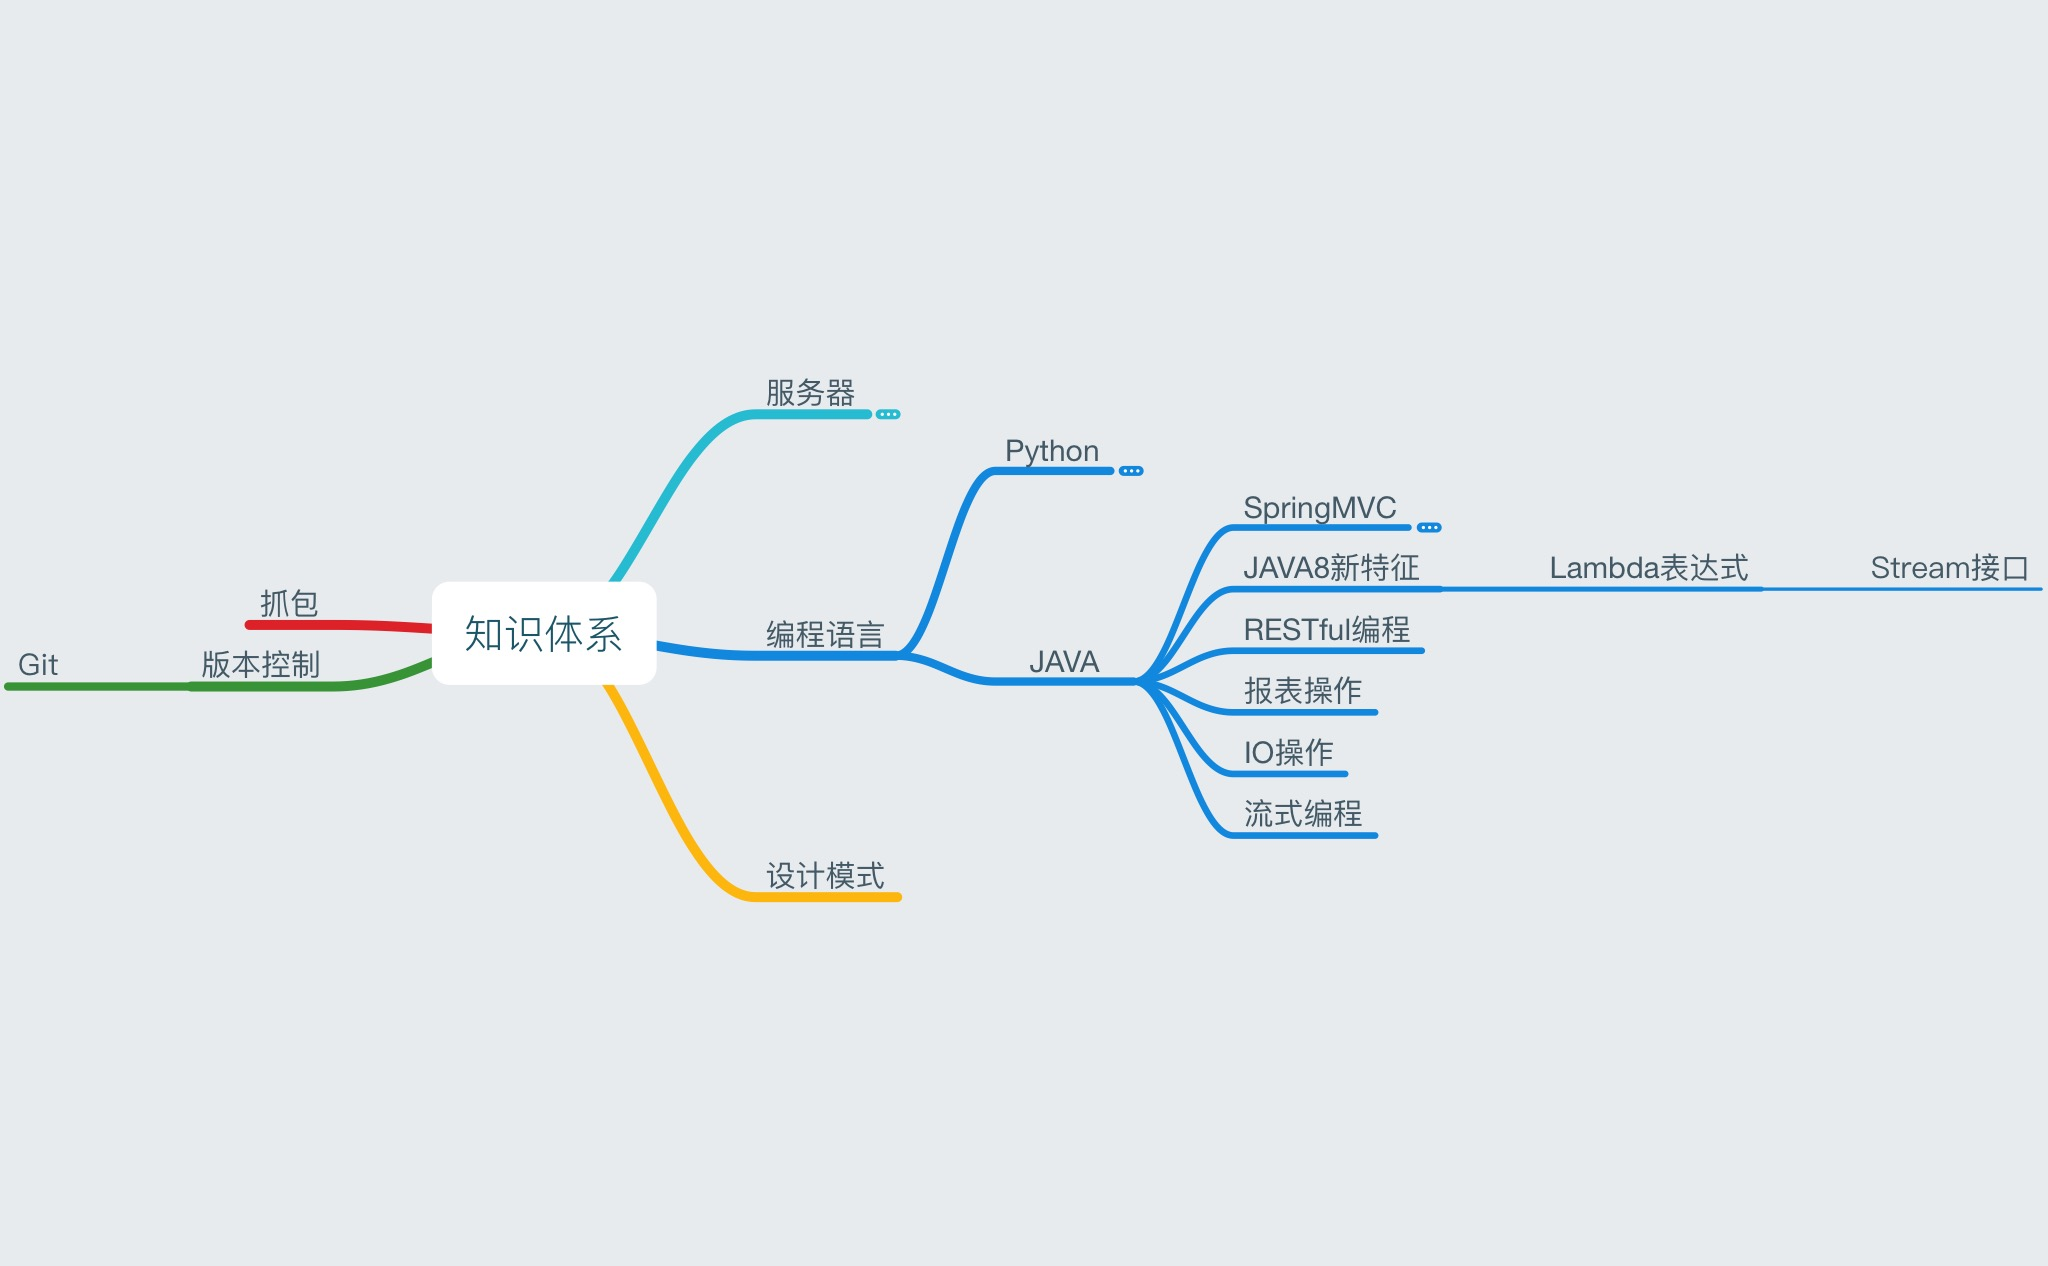
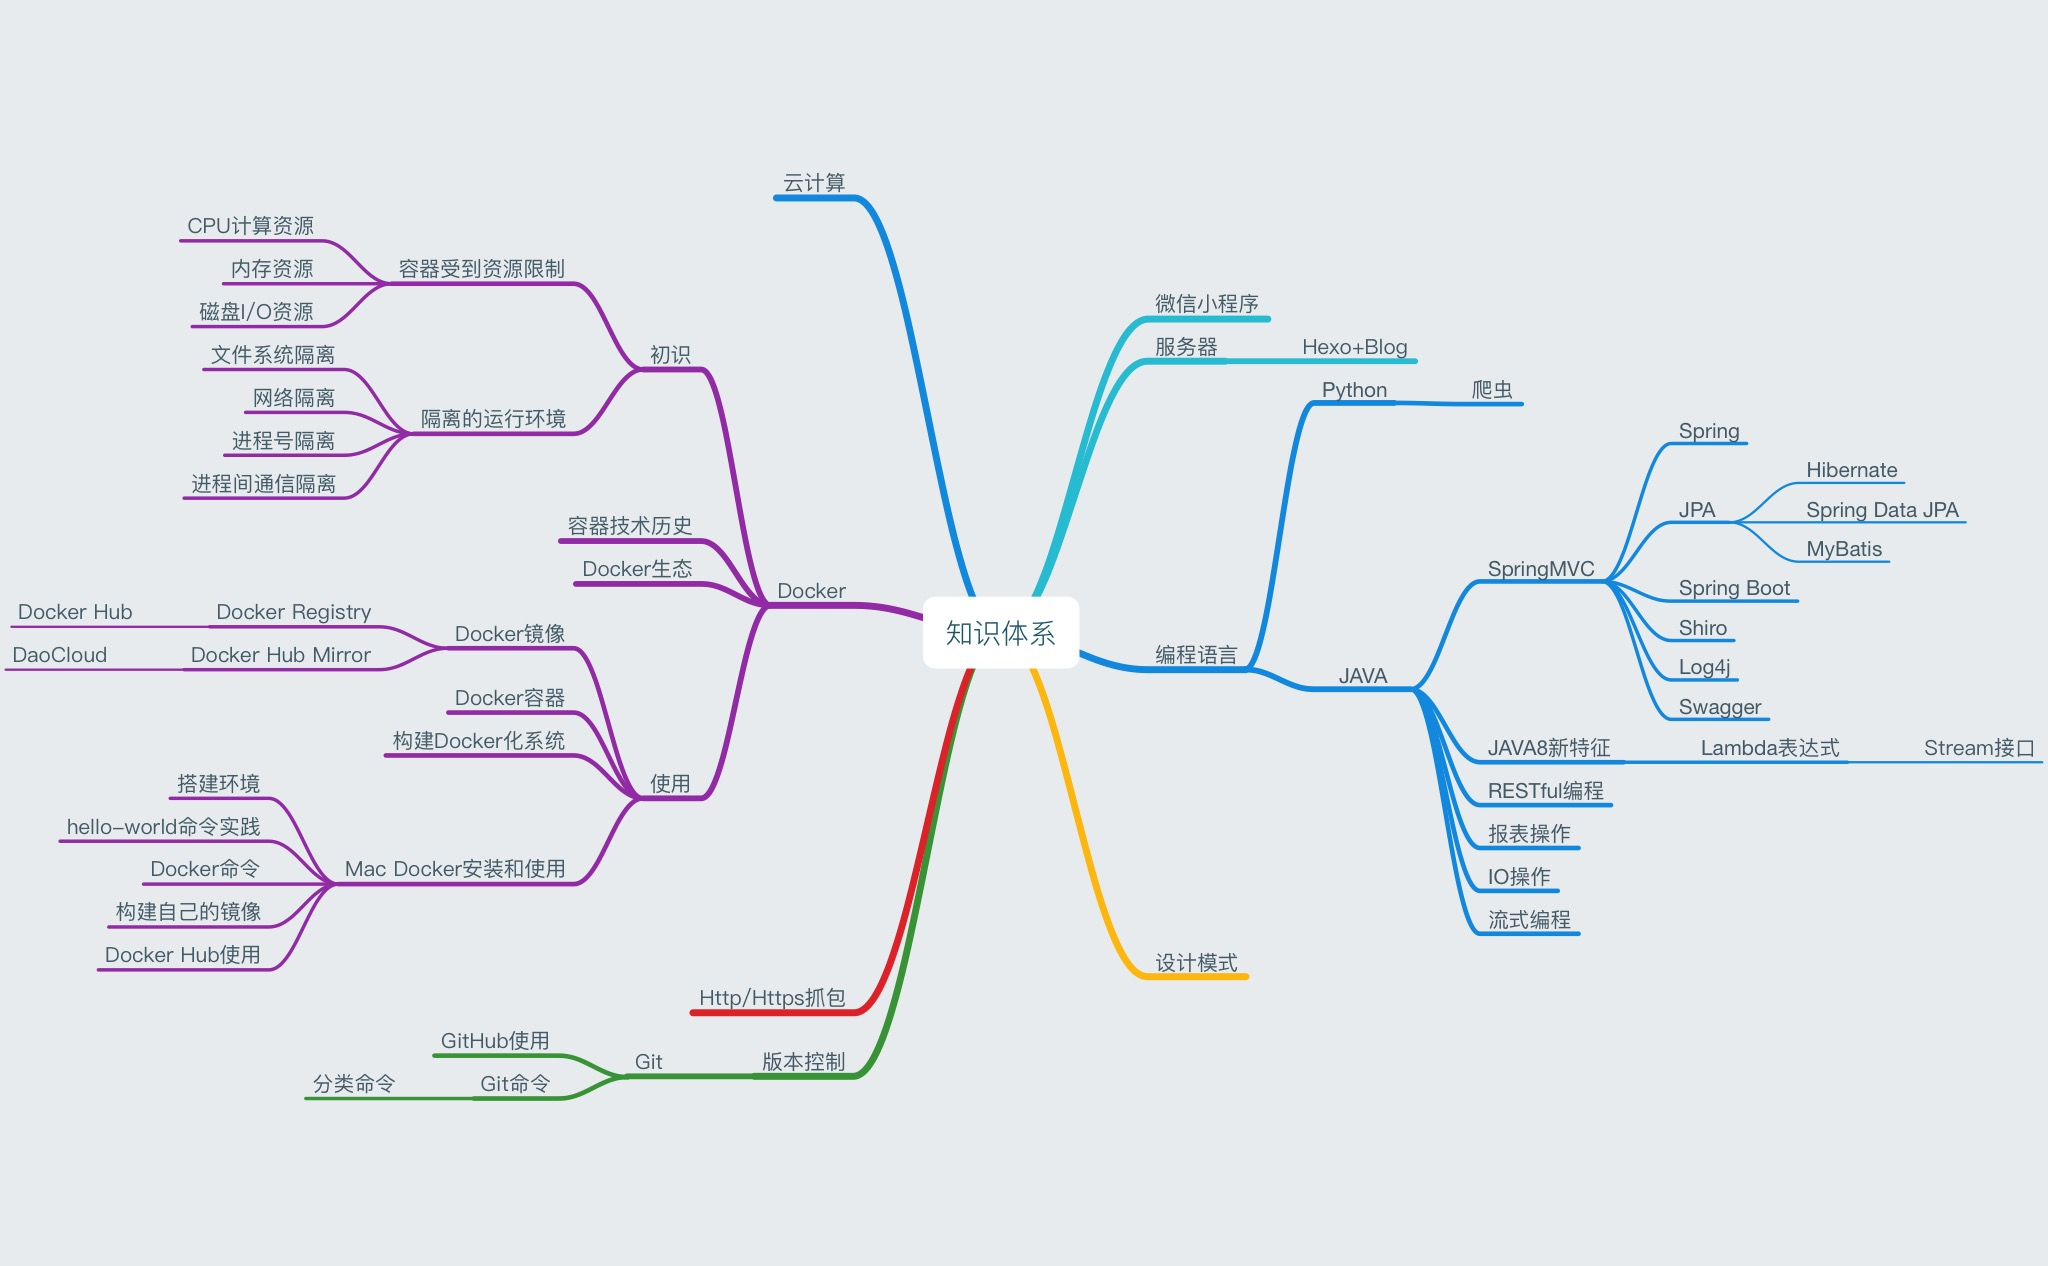
Docker整理

diff --git a/MarkDownResources/Docker学习历程.md b/MarkDownResources/Docker学习历程.md
@@ -1,0 +1,351 @@
+# Docker学习历程
+
+## Mac下搭建Docker环境
+
+参考[ 在OS X安装Docker](http://blog.csdn.net/jpiverson/article/details/50685817)
+
+[docker官网](https://www.docker.com/products/docker-toolbox)下载文件，默认选项安装后，启动`Docker Quickstart Terminal`
+
+成功的执行结果：
+
+```
+Creating CA: /Users/tilkai/.docker/machine/certs/ca.pem
+Creating client certificate: /Users/tilkai/.docker/machine/certs/cert.pem
+Running pre-create checks...
+(default) Default Boot2Docker ISO is out-of-date, downloading the latest release...
+(default) Latest release for github.com/boot2docker/boot2docker is v1.12.6
+(default) Downloading /Users/tilkai/.docker/machine/cache/boot2docker.iso from https://github.com/boot2docker/boot2docker/releases/download/v1.12.6/boot2docker.iso...
+(default) 0%....10%....20%....30%....40%....50%....60%....70%....80%....90%....100%
+Creating machine...
+(default) Copying /Users/tilkai/.docker/machine/cache/boot2docker.iso to /Users/tilkai/.docker/machine/machines/default/boot2docker.iso...
+(default) Creating VirtualBox VM...
+(default) Creating SSH key...
+(default) Starting the VM...
+(default) Check network to re-create if needed...
+(default) Found a new host-only adapter: "vboxnet1"
+(default) Waiting for an IP...
+Waiting for machine to be running, this may take a few minutes...
+Detecting operating system of created instance...
+Waiting for SSH to be available...
+Detecting the provisioner...
+Provisioning with boot2docker...
+Copying certs to the local machine directory...
+Copying certs to the remote machine...
+Setting Docker configuration on the remote daemon...
+Checking connection to Docker...
+Docker is up and running!
+To see how to connect your Docker Client to the Docker Engine running on this virtual machine, run: /usr/local/bin/docker-machine env default
+                        ##         .
+                  ## ## ##        ==
+               ## ## ## ## ##    ===
+           /"""""""""""""""""\___/ ===
+      ~~~ {~~ ~~~~ ~~~ ~~~~ ~~~ ~ /  ===- ~~~
+           \______ o           __/
+             \    \         __/
+              \____\_______/
+
+
+docker is configured to use the default machine with IP 192.168.99.100
+For help getting started, check out the docs at https://docs.docker.com
+```
+
+运行`docker run hello-world`查看是否一切运行良好，正常的返回结果：
+
+```
+➜  ~ docker run hello-world
+Unable to find image 'hello-world:latest' locally
+latest: Pulling from library/hello-world
+
+c04b14da8d14: Pull complete 
+Digest: sha256:0256e8a36e2070f7bf2d0b0763dbabdd67798512411de4cdcf9431a1feb60fd9
+Status: Downloaded newer image for hello-world:latest
+
+Hello from Docker!
+This message shows that your installation appears to be working correctly.
+
+To generate this message, Docker took the following steps:
+ 1. The Docker client contacted the Docker daemon.
+ 2. The Docker daemon pulled the "hello-world" image from the Docker Hub.
+ 3. The Docker daemon created a new container from that image which runs the
+    executable that produces the output you are currently reading.
+ 4. The Docker daemon streamed that output to the Docker client, which sent it
+    to your terminal.
+
+To try something more ambitious, you can run an Ubuntu container with:
+ $ docker run -it ubuntu bash
+
+Share images, automate workflows, and more with a free Docker Hub account:
+ https://hub.docker.com
+
+For more examples and ideas, visit:
+ https://docs.docker.com/engine/userguide/
+```
+
+## 关于镜像和容器
+
+### 解释下`docker run hello-world`
+
+1⃣ (docker)告诉Docker运行docker program；
+2⃣ (run)Docker子命令创建，并运行docker容器；
+3⃣ (hello-world)告诉Docker容器中加载hell-world镜像；
+
+### 通过对`whalesay`镜像的一系列操作进行具体的学习实践
+
+[DockerHub官网](https://hub.docker.com)搜索`whalesay`，进入`docker/whalesay`详情页。
+
+How to use this image中描述执行下面命令来运行：
+
+```
+docker run docker/whalesay cowsay boo
+```
+
+其中，`cowsay`为要运行的命令，`boo`为参数(像如果把参数改为`hello world!`，鲸鱼说话会变成`hello world!`具体看下面的执行结果)。
+
+Docker 会先在本地查找有没有镜像，如果没有就从仓库中下载。
+
+运行结果：
+
+```
+➜  ~ docker run docker/whalesay cowsay boo
+Unable to find image 'docker/whalesay:latest' locally
+latest: Pulling from docker/whalesay
+
+e190868d63f8: Pull complete 
+909cd34c6fd7: Pull complete 
+0b9bfabab7c1: Pull complete 
+a3ed95caeb02: Pull complete 
+00bf65475aba: Pull complete 
+c57b6bcc83e3: Pull complete 
+8978f6879e2f: Pull complete 
+8eed3712d2cf: Pull complete 
+Digest: sha256:178598e51a26abbc958b8a2e48825c90bc22e641de3d31e18aaf55f3258ba93b
+Status: Downloaded newer image for docker/whalesay:latest
+ _____ 
+< boo >
+ ----- 
+    \
+     \
+      \     
+                    ##        .            
+              ## ## ##       ==            
+           ## ## ## ##      ===            
+       /""""""""""""""""___/ ===        
+  ~~~ {~~ ~~~~ ~~~ ~~~~ ~~ ~ /  ===- ~~~   
+       \______ o          __/            
+        \    \        __/             
+          \____\______/   
+
+```
+
+### 查看本地镜像
+
+运行`docker images`，运行结果：
+
+```
+➜  ~ docker images
+REPOSITORY          TAG                 IMAGE ID            CREATED             SIZE
+hello-world         latest              c54a2cc56cbb        6 months ago        1.848 kB
+docker/whalesay     latest              6b362a9f73eb        19 months ago       247 MB
+```
+
+## 构建自己的镜像
+
+下面基于`Docker run docker/whalesay cowsay boo-boo`改进并构建一个新的版本。
+
+构建自己的镜像需要经过以下的一系列操作：
+
+### 创建DockerFile文件
+
+#### 创建镜像环境目录文件
+
+执行：
+
+```
+mkdir DockerBuild
+```
+
+`DockerBuild`可以自行命名定义，这个目录会相当于你构建镜像时的环境，里面会存放构建的镜像的所有东西。
+
+进入该目录：
+
+```
+cd DockerBuild
+```
+
+创建Dockerfile文件：
+
+```
+touch Dockerfile
+```
+
+注意，`Dockerfile`文件无后缀。
+
+这个名称因为刚学习，不确定是不是可以自定义名称，暂且不对文件名做其他操作。
+
+`Dockerfile`中插入：
+
+```
+echo FROM docker/whalesay:latest
+```
+
+其中，`FROM`关键字告诉Docker你的镜像是根据哪个镜像构建的。
+
+#### 添加fortunes程序到镜像
+
+`Dockerfile`文件中插入：
+
+```
+echo RUN apt-get -y update && apt-get install -y fortunes
+```
+
+`fortunes`程序是一个让`whalesay`聪明的说出语句的命令，这一行使用了`apt-get`命令安装`fortunes`。
+
+#### 通过 CMD 指定镜像载入之后需要执行的命令
+
+`Dockerfile`中插入：
+
+```
+CMD /usr/games/fortune -a | cowsay
+```
+
+于是，最终`Dockerfile`的内容为：
+
+```
+FROM docker/whalesay:latest
+
+RUN apt-get -y update && apt-get install -y fortunes
+
+CMD /usr/games/fortune -a | cowsay
+```
+
+### 根据Dockerfile构建你的镜像
+
+`DockerBuild`目录(你自己创建的镜像环境目录)下执行：
+
+```
+docker build -t docker-whale .
+```
+
+执行成功后，会创建名为`docker-whale`的镜像，可通过`docker images`命令查看。
+
+完整的执行结果：
+
+```
+➜  DockerBuild docker build -t docker-whale .
+Sending build context to Docker daemon 2.048 kB
+Step 1 : FROM docker/whalesay:latest
+ ---> 6b362a9f73eb
+Step 2 : RUN apt-get -y update && apt-get install -y fortunes
+ ---> Running in 60c69de9cbd1
+Ign http://archive.ubuntu.com trusty InRelease
+Get:1 http://archive.ubuntu.com trusty-updates InRelease [65.9 kB]
+Get:2 http://archive.ubuntu.com trusty-security InRelease [65.9 kB]
+Hit http://archive.ubuntu.com trusty Release.gpg
+Hit http://archive.ubuntu.com trusty Release
+Get:3 http://archive.ubuntu.com trusty-updates/main Sources [480 kB]
+Get:4 http://archive.ubuntu.com trusty-updates/restricted Sources [5921 B]
+Get:5 http://archive.ubuntu.com trusty-updates/universe Sources [216 kB]
+Get:6 http://archive.ubuntu.com trusty-updates/main amd64 Packages [1172 kB]
+Get:7 http://archive.ubuntu.com trusty-updates/restricted amd64 Packages [20.4 kB]
+Get:8 http://archive.ubuntu.com trusty-updates/universe amd64 Packages [507 kB]
+Get:9 http://archive.ubuntu.com trusty-security/main Sources [157 kB]
+Get:10 http://archive.ubuntu.com trusty-security/restricted Sources [4621 B]
+Get:11 http://archive.ubuntu.com trusty-security/universe Sources [55.9 kB]
+Get:12 http://archive.ubuntu.com trusty-security/main amd64 Packages [711 kB]
+Get:13 http://archive.ubuntu.com trusty-security/restricted amd64 Packages [17.0 kB]
+Get:14 http://archive.ubuntu.com trusty-security/universe amd64 Packages [193 kB]
+Hit http://archive.ubuntu.com trusty/main Sources
+Hit http://archive.ubuntu.com trusty/restricted Sources
+Hit http://archive.ubuntu.com trusty/universe Sources
+Hit http://archive.ubuntu.com trusty/main amd64 Packages
+Hit http://archive.ubuntu.com trusty/restricted amd64 Packages
+Hit http://archive.ubuntu.com trusty/universe amd64 Packages
+Fetched 3671 kB in 23s (154 kB/s)
+Reading package lists...
+Reading package lists...
+Building dependency tree...
+Reading state information...
+The following extra packages will be installed:
+  fortune-mod fortunes-min librecode0
+Suggested packages:
+  x11-utils bsdmainutils
+The following NEW packages will be installed:
+  fortune-mod fortunes fortunes-min librecode0
+0 upgraded, 4 newly installed, 0 to remove and 92 not upgraded.
+Need to get 1961 kB of archives.
+After this operation, 4817 kB of additional disk space will be used.
+Get:1 http://archive.ubuntu.com/ubuntu/ trusty/main librecode0 amd64 3.6-21 [771 kB]
+Get:2 http://archive.ubuntu.com/ubuntu/ trusty/universe fortune-mod amd64 1:1.99.1-7 [39.5 kB]
+Get:3 http://archive.ubuntu.com/ubuntu/ trusty/universe fortunes-min all 1:1.99.1-7 [61.8 kB]
+Get:4 http://archive.ubuntu.com/ubuntu/ trusty/universe fortunes all 1:1.99.1-7 [1089 kB]
+debconf: unable to initialize frontend: Dialog
+debconf: (TERM is not set, so the dialog frontend is not usable.)
+debconf: falling back to frontend: Readline
+debconf: unable to initialize frontend: Readline
+debconf: (This frontend requires a controlling tty.)
+debconf: falling back to frontend: Teletype
+dpkg-preconfigure: unable to re-open stdin: 
+Fetched 1961 kB in 8s (225 kB/s)
+Selecting previously unselected package librecode0:amd64.
+(Reading database ... 13116 files and directories currently installed.)
+Preparing to unpack .../librecode0_3.6-21_amd64.deb ...
+Unpacking librecode0:amd64 (3.6-21) ...
+Selecting previously unselected package fortune-mod.
+Preparing to unpack .../fortune-mod_1%3a1.99.1-7_amd64.deb ...
+Unpacking fortune-mod (1:1.99.1-7) ...
+Selecting previously unselected package fortunes-min.
+Preparing to unpack .../fortunes-min_1%3a1.99.1-7_all.deb ...
+Unpacking fortunes-min (1:1.99.1-7) ...
+Selecting previously unselected package fortunes.
+Preparing to unpack .../fortunes_1%3a1.99.1-7_all.deb ...
+Unpacking fortunes (1:1.99.1-7) ...
+Setting up librecode0:amd64 (3.6-21) ...
+Setting up fortune-mod (1:1.99.1-7) ...
+Setting up fortunes-min (1:1.99.1-7) ...
+Setting up fortunes (1:1.99.1-7) ...
+Processing triggers for libc-bin (2.19-0ubuntu6.6) ...
+ ---> fcc65b9434be
+Removing intermediate container 60c69de9cbd1
+Step 3 : CMD /usr/games/fortune -a | cowsay
+ ---> Running in 02ceaeb0a6d3
+ ---> 4af7ae2d516b
+Removing intermediate container 02ceaeb0a6d3
+Successfully built 4af7ae2d516b
+```
+
+使用`docker run docker-whale`命令看一下新建的镜像吧！，会输出类似如下的结果：
+
+```
+➜  DockerBuild docker run docker-whale
+ ______________________________________ 
+/ Creditor, n.:                        \
+|                                      |
+| A man who has a better memory than a |
+\ debtor.                              /
+ -------------------------------------- 
+    \
+     \
+      \     
+                    ##        .            
+              ## ## ##       ==            
+           ## ## ## ##      ===            
+       /""""""""""""""""___/ ===        
+  ~~~ {~~ ~~~~ ~~~ ~~~~ ~~ ~ /  ===- ~~~   
+       \______ o          __/            
+        \    \        __/             
+          \____\______/   
+```
+
+### 构建过程剖析
+
+`docker build -t docker-whale .`命令会使用当前目录下的`Dockerfile`文件构建一个名为`docker-whale`的镜像。
+
+构建过程首先会检查需要构建的内容(Sending build context to Docker daemon 2.048 kB)，之后会根据Dockerfile文件中的命令分步执行操作。所以出现了上面的输出结果。
+
+## Docker Hub使用
+
+关于DockerHub中进行`pull``push``Tag`等操作后续补充！
+
+待补充和实践的内容还包括Docker中搭建MariaDB和Python环境的操作。
+
+
